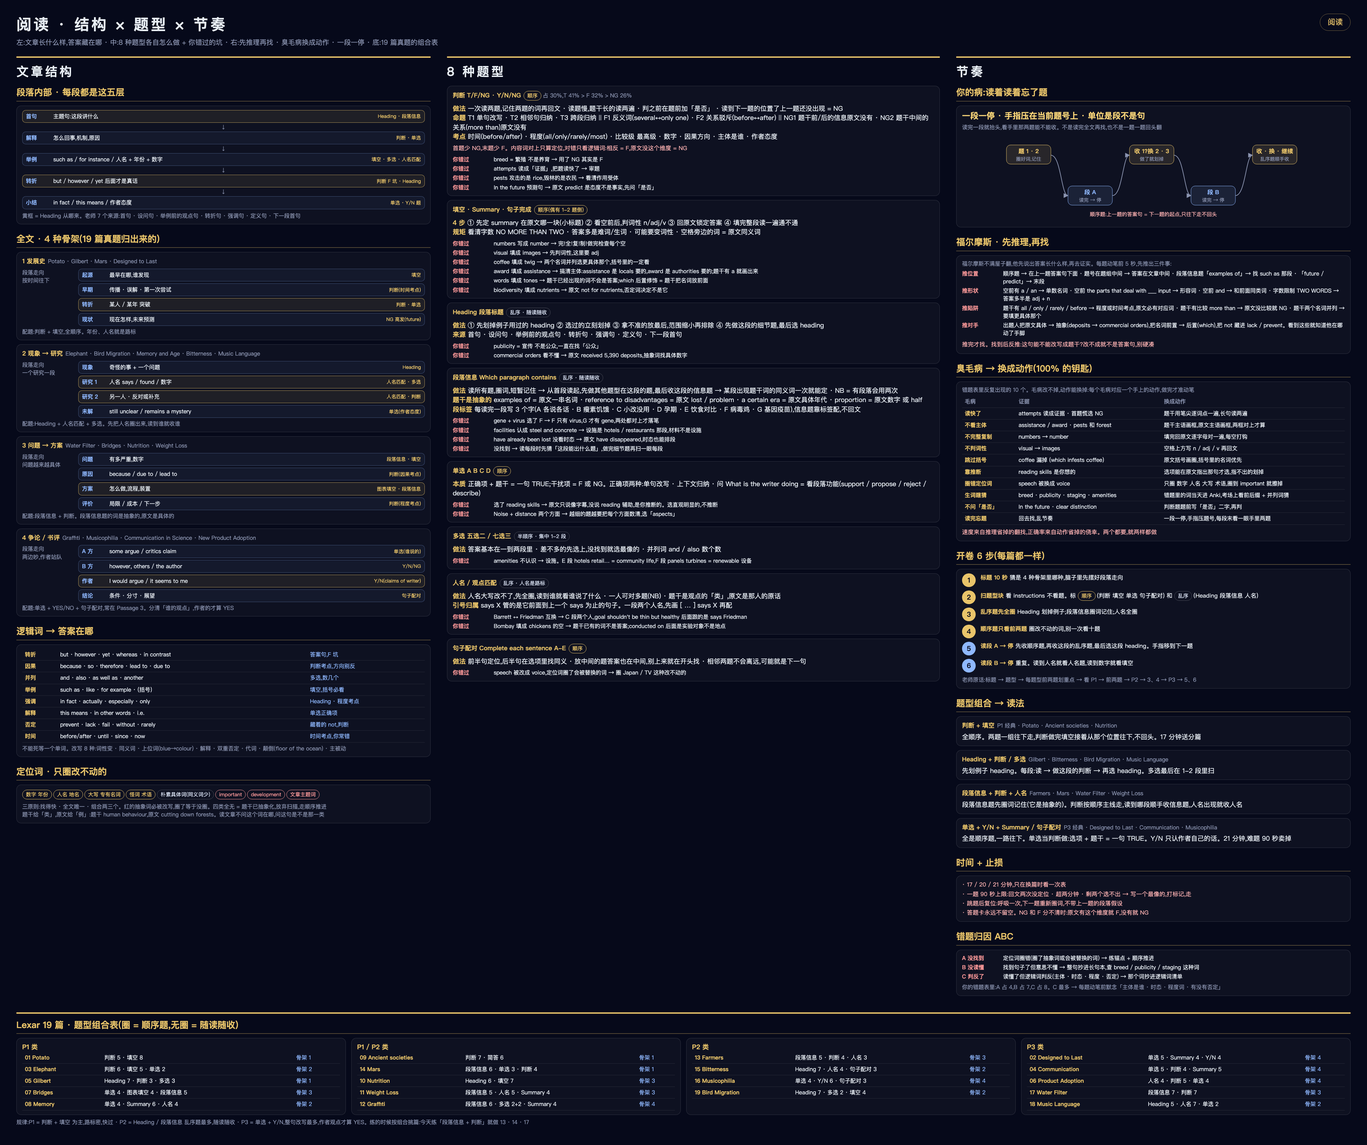
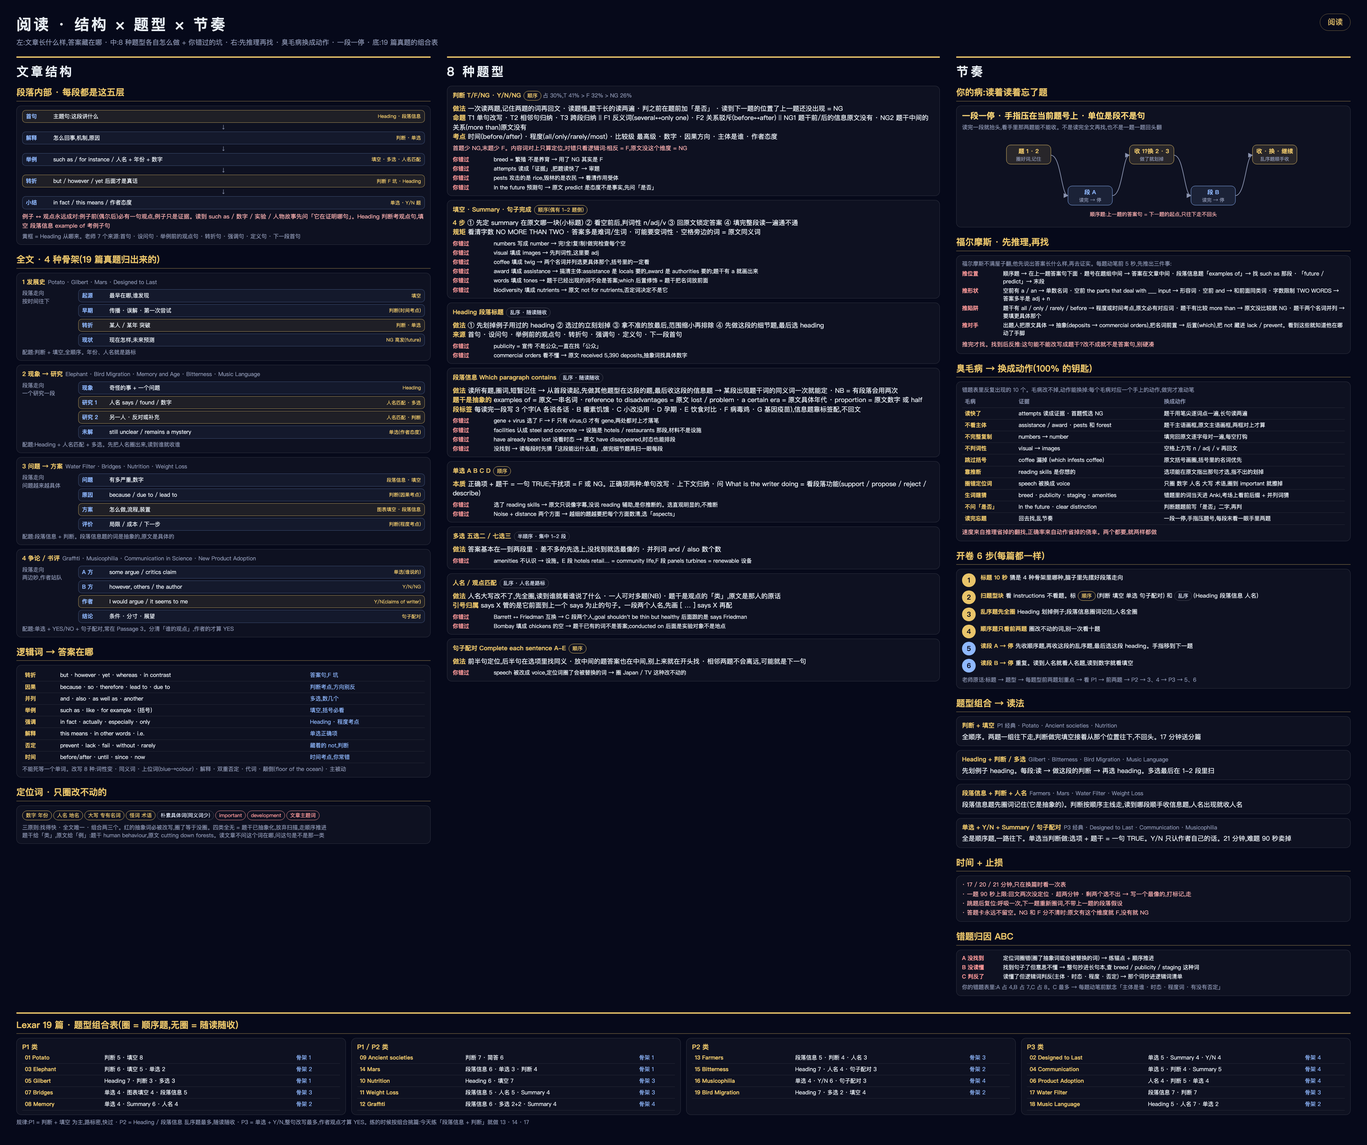
例子↔观点配对规则

Changed region(s): [[0.0, 0.1863, 0.25, 0.7453], [0.25, 0.2484, 0.3125, 0.5279], [0.2812, 0.1863, 0.3125, 0.2174]]

diff --git a/read-tour.html b/read-tour.html
@@ -90,26 +90,26 @@ footer button.g{background:transparent;color:#8b94b0;border:1px solid rgba(255,2
 <script>
 const S=[
 {t:'标题 10 秒',rule:1,h:'Stealth Forces = 藏着的力量。猜骨架',r:[['推','标题说「藏着的力量」,后面一定是一个一个研究者各讲一个原因。骨架 2:现象 → 研究,<em>一个研究一段</em>'],['推','文章 7 段 A–G,引言不算。人名会很多,每段 1–2 个'],['动作','脑子里先摆好:每段 = 一个原因 + 一个人']]},
-{t:'段内怎么读',h:'每段五层:两层慢,三层快',r:[['慢','<em>首句</em>:这段讲什么,heading 和段落信息从这来'],['快','解释层:机制、过程、头衔、单位。题目不考过程,扫过去知道在讲什么就行'],['快','举例层:列举 some/others、动物名单。<em>例外:有数字、人名、专名就慢</em>,那是题的锚'],['慢','<em>转折 but / however / that said / yet</em>:后面才是真话,F 坑和第二个人名常藏这里'],['慢','<em>says 人名</em> 前面的引号句,<em>段尾小结 the goal is / the implication is</em>'],['动作','进段前先扫一眼:这段有几个 says?几个数字?有没有 but?有的地方就是要慢的地方']]},
+{t:'段内怎么读',h:'每段五层:两层慢,三层快',r:[['慢','<em>首句</em>:这段讲什么,heading 和段落信息从这来'],['快','解释层:机制、过程、头衔、单位。题目不考过程,扫过去知道在讲什么就行'],['快','举例层:列举 some/others、动物名单。<em>例外:有数字、人名、专名就慢</em>,那是题的锚'],['慢','<em>转折 but / however / that said / yet</em>:后面才是真话,F 坑和第二个人名常藏这里'],['慢','<em>says 人名</em> 前面的引号句,<em>段尾小结 the goal is / the implication is</em>'],['配对','<em>例子 ↔ 观点 永远成对</em>。例子前面(偶尔后面)必有一句观点,例子只是它的证据。读到 such as / 数字 / 实验 / 人物故事,先问「它在证明哪句」,找到那句圈起来:heading、判断考观点句,填空、段落信息 example of 考例子句'],['动作','进段前先扫一眼:这段有几个 says?几个数字?有没有 but?有的地方就是要慢的地方']]},
 {t:'扫题型块',h:'只看 instructions,不看题',r:[['看','14–18 Which section contains → <em>段落信息,乱序</em>'],['看','19–23 Match each researcher → <em>人名匹配,乱序</em>,但人名是大写路标'],['看','24–27 Complete the summary → <em>顺序题</em>,ONE WORD AND/OR A NUMBER'],['动作','乱序两组先全圈;顺序组只看前两题。一遍读文章,三种题同时收']],q:['q14','q15','q16','q17','q18','q19','q20','q21','q22','q23','q24','q25','q26','q27']},
 {t:'乱序题先全圈',h:'段落信息 5 题:圈改不动的词',r:[['圈','14 diets · 15 birth-related · 16 regain weight · 17 hunger · 18 <em>gene + virus</em>(两个锚点,必须都对上)'],['推','题干是抽象的,原文是具体的。birth-related 在原文会是 pregnant / womb / mother;regain 会是 kept it off'],['动作','这 5 个词记在脑子里,读到哪段像就收哪段,绝不单独回头找']],q:['q14','q15','q16','q17','q18'],an:['q14','q15','q16','q17','q18']},
 {t:'乱序题先全圈',h:'人名 6 个:先在文章里全圈出来',r:[['圈','A Berkowitz · B Leibel · C Dhurandhar · D Barrett · E Friedman · F Hillier。大写改不了,一眼扫到'],['推','A 段 2 人 · B 段 1 人 · C 段 2 人 · D 段 1 人 · F G 段 Dhurandhar。<em>C 段两个人,是陷阱段</em>'],['规矩','says X 管的是它前面到上一个 says 为止的句子。两个人一段,先画 [ … ] says X 再配'],['动作','读到人名就停,看他说了什么,对一下 19–23 哪题像']],names:true,q:['q19','q20','q21','q22','q23']},
 {t:'顺序题只看前两题',h:'Summary 24–25:先推答案长什么样',r:[['推','Summary 讲 Bombay 的年轻医生,virus → 这是 Dhurandhar,答案在 <em>F G 两段</em>,前面 5 段不用找'],['推','24 experiment conducted on ___ → on 后面是<em>实验对象</em>,不是地点。Bombay 题干里已经有了,出现过的词不会是答案'],['推','25 a new virus named ___ → 专有名词,大写或带数字'],['动作','这两题的形状记住,读到 F 段再收']],q:['q24','q25'],an:['q24']},
 {t:'先你来',peek:1,p:'pA',h:'段 A · 自己先推,再看揭晓',r:[['扫','这段几个 says?几个数字?有没有 but / however / that said?有的地方就是要慢读的地方'],['推','段落信息 5 个词(diets · birth · regain · hunger · gene+virus)哪个像在这段?不像就说「没有」'],['推','这段的人名,19–23 哪题像他说的?一段两个人就先画括号'],['推','summary 24–27 在这段吗?(推理:它讲 virus,只在 F G)'],['动作','心里把答案说出声,再按 → 对答案。猜错的那一条就是你明天要练的']]},
-{t:'读段 A → 停',h:'A 各说各话',p:'pA',tag:'各说各话',r:[['读法','亮的慢读,暗的快扫。<em>首句</em>定调(各说各话) → 列举 some/others 快扫,不记内容 → <em>says</em> 前的引号句慢读,这是人名题的货 → <em>but</em> 后慢读。头衔、单位一律跳'],['读','专家们的发现像象牙和象尾一样不同。Everyone subscribes to their own little theory, says Berkowitz'],['收','23 Researchers divided into groups with own point of view = <em>Everyone … own little theory</em> → A Berkowitz'],['查','Dhurandhar 这里说的是 willpower 平均分布,19–23 没有这题,不收'],['查','段落信息 5 个词:diets birth regain hunger gene,A 段都没有。走']],ans:['a23'],ok:[['q23']]},
+{t:'读段 A → 停',h:'A 各说各话',p:'pA',tag:'各说各话',r:[['读法','亮的慢读,暗的快扫。<em>首句</em>定调(各说各话) → 列举 some/others 快扫,不记内容 → <em>says</em> 前的引号句慢读,这是人名题的货 → <em>but</em> 后慢读。头衔、单位一律跳'],['配对','例子:some say genes / others fries / still others virus 三个列举 ↔ 观点:首句「各家发现差异像象牙和象尾」。列举只是证据,题考的是观点句(23)'],['读','专家们的发现像象牙和象尾一样不同。Everyone subscribes to their own little theory, says Berkowitz'],['收','23 Researchers divided into groups with own point of view = <em>Everyone … own little theory</em> → A Berkowitz'],['查','Dhurandhar 这里说的是 willpower 平均分布,19–23 没有这题,不收'],['查','段落信息 5 个词:diets birth regain hunger gene,A 段都没有。走']],ans:['a23'],ok:[['q23']]},
 {t:'先你来',peek:1,p:'pB',h:'段 B · 自己先推,再看揭晓',r:[['扫','这段几个 says?几个数字?有没有 but / however / that said?有的地方就是要慢读的地方'],['推','段落信息 5 个词(diets · birth · regain · hunger · gene+virus)哪个像在这段?不像就说「没有」'],['推','这段的人名,19–23 哪题像他说的?一段两个人就先画括号'],['推','summary 24–27 在这段吗?(推理:它讲 virus,只在 F G)'],['动作','心里把答案说出声,再按 → 对答案。猜错的那一条就是你明天要练的']]},
-{t:'读段 B → 停',h:'B 瘦素 · 饥饿',p:'pB',tag:'瘦素饥饿',r:[['读法','首句 leptin 慢 → 中间机制(produce/desensitized/plummet)快扫,这是解释层,题目不考过程 → <em>says Leibel</em> 那句慢:hunger 是段落信息词,majority couldn\'t stand 是程度词'],['读','leptin 掉 → 代谢掉 → chronic hunger,Leibel 比作口渴:多数人受不了'],['收','17 hunger unacceptable to most participants = <em>chronic hunger … the majority couldn\'t stand it</em> → B'],['查','Leibel 在 19–23 里没题。人名有,题没有,正常,走'],['动作','段旁写 3 个字:瘦素饥饿。手指移到下一题']],ans:['a17','a17b'],ok:[['q17']]},
+{t:'读段 B → 停',h:'B 瘦素 · 饥饿',p:'pB',tag:'瘦素饥饿',r:[['读法','首句 leptin 慢 → 中间机制(produce/desensitized/plummet)快扫,这是解释层,题目不考过程 → <em>says Leibel</em> 那句慢:hunger 是段落信息词,majority couldn\'t stand 是程度词'],['配对','例子:produce too little / desensitized / plummet ↔ 观点:leptin is a crucial player。机制是证据,快扫;chronic hunger 那句是从机制推出的结论,慢'],['读','leptin 掉 → 代谢掉 → chronic hunger,Leibel 比作口渴:多数人受不了'],['收','17 hunger unacceptable to most participants = <em>chronic hunger … the majority couldn\'t stand it</em> → B'],['查','Leibel 在 19–23 里没题。人名有,题没有,正常,走'],['动作','段旁写 3 个字:瘦素饥饿。手指移到下一题']],ans:['a17','a17b'],ok:[['q17']]},
 {t:'先你来',peek:1,p:'pC',h:'段 C · 自己先推,再看揭晓',r:[['扫','这段几个 says?几个数字?有没有 but / however / that said?有的地方就是要慢读的地方'],['推','段落信息 5 个词(diets · birth · regain · hunger · gene+virus)哪个像在这段?不像就说「没有」'],['推','这段的人名,19–23 哪题像他说的?一段两个人就先画括号'],['推','summary 24–27 在这段吗?(推理:它讲 virus,只在 F G)'],['动作','心里把答案说出声,再按 → 对答案。猜错的那一条就是你明天要练的']]},
-{t:'读段 C → 停 · 陷阱段',h:'C 两个人名:先画括号',p:'pC',tag:'小改没用+目标健康',r:[['读法','首句有 <em>but</em>,慢:政府说的小运动没用 → 150 calories 两个苹果是举例,快 → <em>says Barrett</em> 慢 → <em>5,000 / 66 pounds / 5.5 years</em> 数字慢,数字是题的锚 → 列举 low-carb/low-fat 快 → <em>That said</em> 是转折,后面藏着第二个人,慢到段尾'],['画','[ Radical changes are necessary … every other day ] says <em>Barrett</em>'],['画','[ The goal shouldn\'t be getting thin, but getting healthy … ] says <em>Friedman</em>。这句藏在段尾,上次你把它算给了 Barrett'],['收','22 Small changes not have great impact = 反义改写 Radical changes necessary → D Barrett'],['收','21 aim should be healthy not attractiveness = goal not thin but healthy → E Friedman'],['收','16 people who never regain = NWCR 5,000 人 kept it off 5.5 years → C']],ans:['a22','a21','a16'],ok:[['q22'],['q21'],['q16']]},
+{t:'读段 C → 停 · 陷阱段',h:'C 两个人名:先画括号',p:'pC',tag:'小改没用+目标健康',r:[['读法','首句有 <em>but</em>,慢:政府说的小运动没用 → 150 calories 两个苹果是举例,快 → <em>says Barrett</em> 慢 → <em>5,000 / 66 pounds / 5.5 years</em> 数字慢,数字是题的锚 → 列举 low-carb/low-fat 快 → <em>That said</em> 是转折,后面藏着第二个人,慢到段尾'],['配对','例子 1:150 calories = two apples ↔ 观点:小运动 may not budge the needle(首句 but)。例子 2:NWCR 5,000 人 66 磅 ↔ 观点:Radical changes are necessary(Barrett)。16 考例子句,22 考观点句,同一对'],['画','[ Radical changes are necessary … every other day ] says <em>Barrett</em>'],['画','[ The goal shouldn\'t be getting thin, but getting healthy … ] says <em>Friedman</em>。这句藏在段尾,上次你把它算给了 Barrett'],['收','22 Small changes not have great impact = 反义改写 Radical changes necessary → D Barrett'],['收','21 aim should be healthy not attractiveness = goal not thin but healthy → E Friedman'],['收','16 people who never regain = NWCR 5,000 人 kept it off 5.5 years → C']],ans:['a22','a21','a16'],ok:[['q22'],['q21'],['q16']]},
 {t:'先你来',peek:1,p:'pD',h:'段 D · 自己先推,再看揭晓',r:[['扫','这段几个 says?几个数字?有没有 but / however / that said?有的地方就是要慢读的地方'],['推','段落信息 5 个词(diets · birth · regain · hunger · gene+virus)哪个像在这段?不像就说「没有」'],['推','这段的人名,19–23 哪题像他说的?一段两个人就先画括号'],['推','summary 24–27 在这段吗?(推理:它讲 virus,只在 F G)'],['动作','心里把答案说出声,再按 → 对答案。猜错的那一条就是你明天要练的']]},
-{t:'读段 D → 停',h:'D 孕期',p:'pD',tag:'孕期',r:[['读法','首句 genes 慢 → <em>If</em> 条件句 + 10,000 数字慢,这是研究结论 → says Hillier 慢 → 头衔快 → <em>The implication is clear</em> 小结句慢,heading 和段落信息都从这来 → 建议孕妇那两句快'],['读','genes 写好的体重,出生前在子宫里就被改。孕期高血糖 → 孩子肥胖。Hillier'],['收','19 predetermined to a set point by DNA = <em>optimal weight, written by genes</em> → F Hillier'],['收','20 Pregnant overweight mothers risk fetus = mother\'s obesity increases child\'s risk → F Hillier(一人两题,NB)'],['收','15 birth-related weight problems → D']],ans:['a19','a20','a15'],ok:[['q19'],['q20'],['q15']]},
+{t:'读段 D → 停',h:'D 孕期',p:'pD',tag:'孕期',r:[['读法','首句 genes 慢 → <em>If</em> 条件句 + 10,000 数字慢,这是研究结论 → says Hillier 慢 → 头衔快 → <em>The implication is clear</em> 小结句慢,heading 和段落信息都从这来 → 建议孕妇那两句快'],['配对','例子:10,000 mother-child pairs 研究 ↔ 观点:体重出生前就被改(首句)。小结 The implication is clear 把例子收回观点。15、19、20 三题都在这一对里'],['读','genes 写好的体重,出生前在子宫里就被改。孕期高血糖 → 孩子肥胖。Hillier'],['收','19 predetermined to a set point by DNA = <em>optimal weight, written by genes</em> → F Hillier'],['收','20 Pregnant overweight mothers risk fetus = mother\'s obesity increases child\'s risk → F Hillier(一人两题,NB)'],['收','15 birth-related weight problems → D']],ans:['a19','a20','a15'],ok:[['q19'],['q20'],['q15']]},
 {t:'先你来',peek:1,p:'pE',h:'段 E · 自己先推,再看揭晓',r:[['扫','这段几个 says?几个数字?有没有 but / however / that said?有的地方就是要慢读的地方'],['推','段落信息 5 个词(diets · birth · regain · hunger · gene+virus)哪个像在这段?不像就说「没有」'],['推','这段的人名,19–23 哪题像他说的?一段两个人就先画括号'],['推','summary 24–27 在这段吗?(推理:它讲 virus,只在 F G)'],['动作','心里把答案说出声,再按 → 对答案。猜错的那一条就是你明天要练的']]},
-{t:'读段 E → 停',h:'E 两种饮食对比',p:'pE',tag:'饮食对比',r:[['读法','<em>设问</em> Which diets work 慢,这句就是段落信息 14 的答案 → 中间实验设计和四组数据全部快扫,除非题目问数字 → <em>But the most successful</em> 转折结论慢。全段只慢读两处'],['读','Which diets work? 低脂 vs 低升糖,高胰岛素组在低升糖饮食上最成功'],['收','14 evaluation of weight loss on different diets → E'],['查','E 段没人名,19–23 不动。summary 讲 virus,E 段不是。走']],ans:['a14'],ok:[['q14']]},
+{t:'读段 E → 停',h:'E 两种饮食对比',p:'pE',tag:'饮食对比',r:[['读法','<em>设问</em> Which diets work 慢,这句就是段落信息 14 的答案 → 中间实验设计和四组数据全部快扫,除非题目问数字 → <em>But the most successful</em> 转折结论慢。全段只慢读两处'],['配对','例子:四组数据(10 磅 / 4.5 磅 / 13 磅)↔ 观点:设问 Which diets work + 结论 But the most successful。中间数字全是证据,题 14 只考这一对的存在'],['读','Which diets work? 低脂 vs 低升糖,高胰岛素组在低升糖饮食上最成功'],['收','14 evaluation of weight loss on different diets → E'],['查','E 段没人名,19–23 不动。summary 讲 virus,E 段不是。走']],ans:['a14'],ok:[['q14']]},
 {t:'先你来',peek:1,p:'pF',h:'段 F · 自己先推,再看揭晓',r:[['扫','这段几个 says?几个数字?有没有 but / however / that said?有的地方就是要慢读的地方'],['推','段落信息 5 个词(diets · birth · regain · hunger · gene+virus)哪个像在这段?不像就说「没有」'],['推','这段的人名,19–23 哪题像他说的?一段两个人就先画括号'],['推','summary 24–27 在这段吗?(推理:它讲 virus,只在 F G)'],['动作','心里把答案说出声,再按 → 对答案。猜错的那一条就是你明天要练的']]},
-{t:'读段 F → 停',h:'F 病毒鸡',p:'pF',tag:'病毒鸡',r:[['读法','设问 what if … virus 慢 → says Dhurandhar 慢 → Bombay 故事快扫 → <em>In experiments</em> 慢:实验句 = 填空题的货,对象 chickens 就在这'],['读','virus 导致肥胖?Dhurandhar 在 Bombay 发现 SMAM-1 让鸡变胖'],['收','24 conducted on ___ = In experiments … infected <em>chickens</em>。不是 Bombay:题干已有,且 on 后面是对象'],['查','18 gene + virus:F 段只有 <em>virus</em>,没有 gene。<em>只对上一处,不落笔</em>,继续往下'],['动作','手指移到 25']],ans:['a24'],an:['f1'],ok:[['q24']]},
+{t:'读段 F → 停',h:'F 病毒鸡',p:'pF',tag:'病毒鸡',r:[['读法','设问 what if … virus 慢 → says Dhurandhar 慢 → Bombay 故事快扫 → <em>In experiments</em> 慢:实验句 = 填空题的货,对象 chickens 就在这'],['配对','例子:Bombay 鸡 SMAM-1 ↔ 观点:fat caused by a virus(设问句)。24 填的是例子里的对象 chickens,题干「believed obesity is caused by a kind of virus」就是观点句'],['读','virus 导致肥胖?Dhurandhar 在 Bombay 发现 SMAM-1 让鸡变胖'],['收','24 conducted on ___ = In experiments … infected <em>chickens</em>。不是 Bombay:题干已有,且 on 后面是对象'],['查','18 gene + virus:F 段只有 <em>virus</em>,没有 gene。<em>只对上一处,不落笔</em>,继续往下'],['动作','手指移到 25']],ans:['a24'],an:['f1'],ok:[['q24']]},
 {t:'先你来',peek:1,p:'pG',h:'段 G · 自己先推,再看揭晓',r:[['扫','这段几个 says?几个数字?有没有 but / however / that said?有的地方就是要慢读的地方'],['推','段落信息 5 个词(diets · birth · regain · hunger · gene+virus)哪个像在这段?不像就说「没有」'],['推','这段的人名,19–23 哪题像他说的?一段两个人就先画括号'],['推','summary 24–27 在这段吗?(推理:它讲 virus,只在 F G)'],['动作','心里把答案说出声,再按 → 对答案。猜错的那一条就是你明天要练的']]},
-{t:'读段 G → 停',h:'G 基因 · 疫苗',p:'pG',tag:'基因疫苗',r:[['读法','首句专名 AD-36 慢 → 动物列举快 → <em>In his latest studies</em> 慢,latest 说明这是最新进展,题最爱 → stem cells 机制快 → <em>the goal is</em> 慢,段尾目标句 = 填空 27'],['收','25 new virus named = <em>adenovirus 36 (AD-36)</em>,写 AD-36'],['收','26 a kind of ___ can be separated to block = isolated a <em>gene</em> … blocked'],['收','27 developing a new ___ = obesity <em>vaccine</em>'],['收','18 gene + virus 两处都在 G → G。上次选 F 就是只对了一处']],ans:['a25','a26','a18','a27'],ok:[['q25'],['q26'],['q27'],['q18']]},
-{t:'收尾 90 秒',h:'14/14 · 动笔前最后四问',r:[['问','填空:逐字母对一遍。chickens 有 s;AD-36 连字符'],['问','题干已有的词有没有被我填进去?(Bombay)'],['问','人名题:每个 says 的括号画对了吗?C 段两个人'],['问','答题卡有没有空?段落信息 NB 没出现,所以每段最多用一次,E D C B G 不重复'],['时','这篇 20 分钟。读了一遍,没回头。换篇时看一次表']]},
+{t:'读段 G → 停',h:'G 基因 · 疫苗',p:'pG',tag:'基因疫苗',r:[['读法','首句专名 AD-36 慢 → 动物列举快 → <em>In his latest studies</em> 慢,latest 说明这是最新进展,题最爱 → stem cells 机制快 → <em>the goal is</em> 慢,段尾目标句 = 填空 27'],['配对','例子:chickens / mice / monkeys 15% ↔ 观点:every species became obese。例子:stem cells 实验 ↔ 观点:isolated a gene that turns off fattening。26 考观点句 gene,动物名单一个字不用记'],['收','25 new virus named = <em>adenovirus 36 (AD-36)</em>,写 AD-36'],['收','26 a kind of ___ can be separated to block = isolated a <em>gene</em> … blocked'],['收','27 developing a new ___ = obesity <em>vaccine</em>'],['收','18 gene + virus 两处都在 G → G。上次选 F 就是只对了一处']],ans:['a25','a26','a18','a27'],ok:[['q25'],['q26'],['q27'],['q18']]},
+{t:'收尾 90 秒',h:'14/14 · 动笔前最后四问',r:[['问','填空:逐字母对一遍。chickens 有 s;AD-36 连字符'],['问','题干已有的词有没有被我填进去?(Bombay)'],['问','人名题:每个 says 的括号画对了吗?C 段两个人'],['问','每个例子都找到了它证明的那句观点吗?没找到的例子 = 你漏读的观点句'],['问','答题卡有没有空?段落信息 NB 没出现,所以每段最多用一次,E D C B G 不重复'],['时','这篇 20 分钟。读了一遍,没回头。换篇时看一次表']]},
 {t:'能力怎么长出来',h:'明天起:Lexar 其他 18 篇,自己当导游',r:[['做','每篇先走 4 步:标题猜骨架 → 扫题型块标顺乱 → 乱序题全圈 → 顺序题前两题'],['做','每段读完三件事:段旁写 3 字标签 · 每个 says 画括号 · 看手里两题能不能收'],['做','对答案后每道错题贴 A 没找到 / B 没读懂 / C 判反。C 多就练「主体 时态 程度 否定」四问'],['量','一天两篇,20 分钟一篇,不超时。先做 13 · 14 · 17(段落信息 + 判断),再做 05 · 15 · 19(Heading)'],['动作','第 3 篇起把这页关掉,只留海报。能不看导游也走完 6 步,能力就在你手上了']]}
 ];
 let i=0,t0=Date.now();

diff --git a/posters/4_阅读.html b/posters/4_阅读.html
@@ -68,7 +68,7 @@ svg text{font-family:-apple-system,"PingFang SC",sans-serif}
 <div class="arrow">↓</div>
 <div class="p"><i>小结</i><span>in fact / this means / 作者态度</span><s>单选 · Y/N 题</s></div>
 </div>
-<div class="cn" style="margin-top:8px">黄框 = Heading 从哪来。老师 7 个来源:首句 · 设问句 · 举例前的观点句 · 转折句 · 强调句 · 定义句 · 下一段首句</div>
+<div class="rule" style="margin-top:8px">例子 ↔ 观点永远成对:例子前(偶尔后)必有一句观点,例子只是证据。读到 such as / 数字 / 实验 / 人物故事先问「它在证明哪句」。Heading 判断考观点句,填空 段落信息 example of 考例子句</div><div class="cn" style="margin-top:6px">黄框 = Heading 从哪来。老师 7 个来源:首句 · 设问句 · 举例前的观点句 · 转折句 · 强调句 · 定义句 · 下一段首句</div>
 </div>
 
 <h2 class="mt">全文 · 4 种骨架(19 篇真题归出来的)</h2>

diff --git a/sw.js b/sw.js
@@ -1,4 +1,4 @@
-const V = 'mmb-v40';
+const V = 'mmb-v41';
 const FILES = ['./', './index.html', './apple-touch-icon.png', './icon-192.png', './icon-512.png', './models.html', './polya.html', './drill.html', './english.html', './spell.html', './spell-data.js', './spell-v1map.js', './writing.html', './writing-data.js', './speak.html', './speak-data.js', './read-tour.html', './su/math.html', './su/code.html', './su/engine.js', './su/base.css', './su/map.css', './su/star.js',
                './immune/map.html', './immune/api.js', './immune/base.css', './immune/star.js', './immune/nodes.json', './immune/fig.html', './vendor/pdf.min.mjs', './vendor/pdf.worker.min.mjs',
                './icon.svg', './manifest.webmanifest'];
